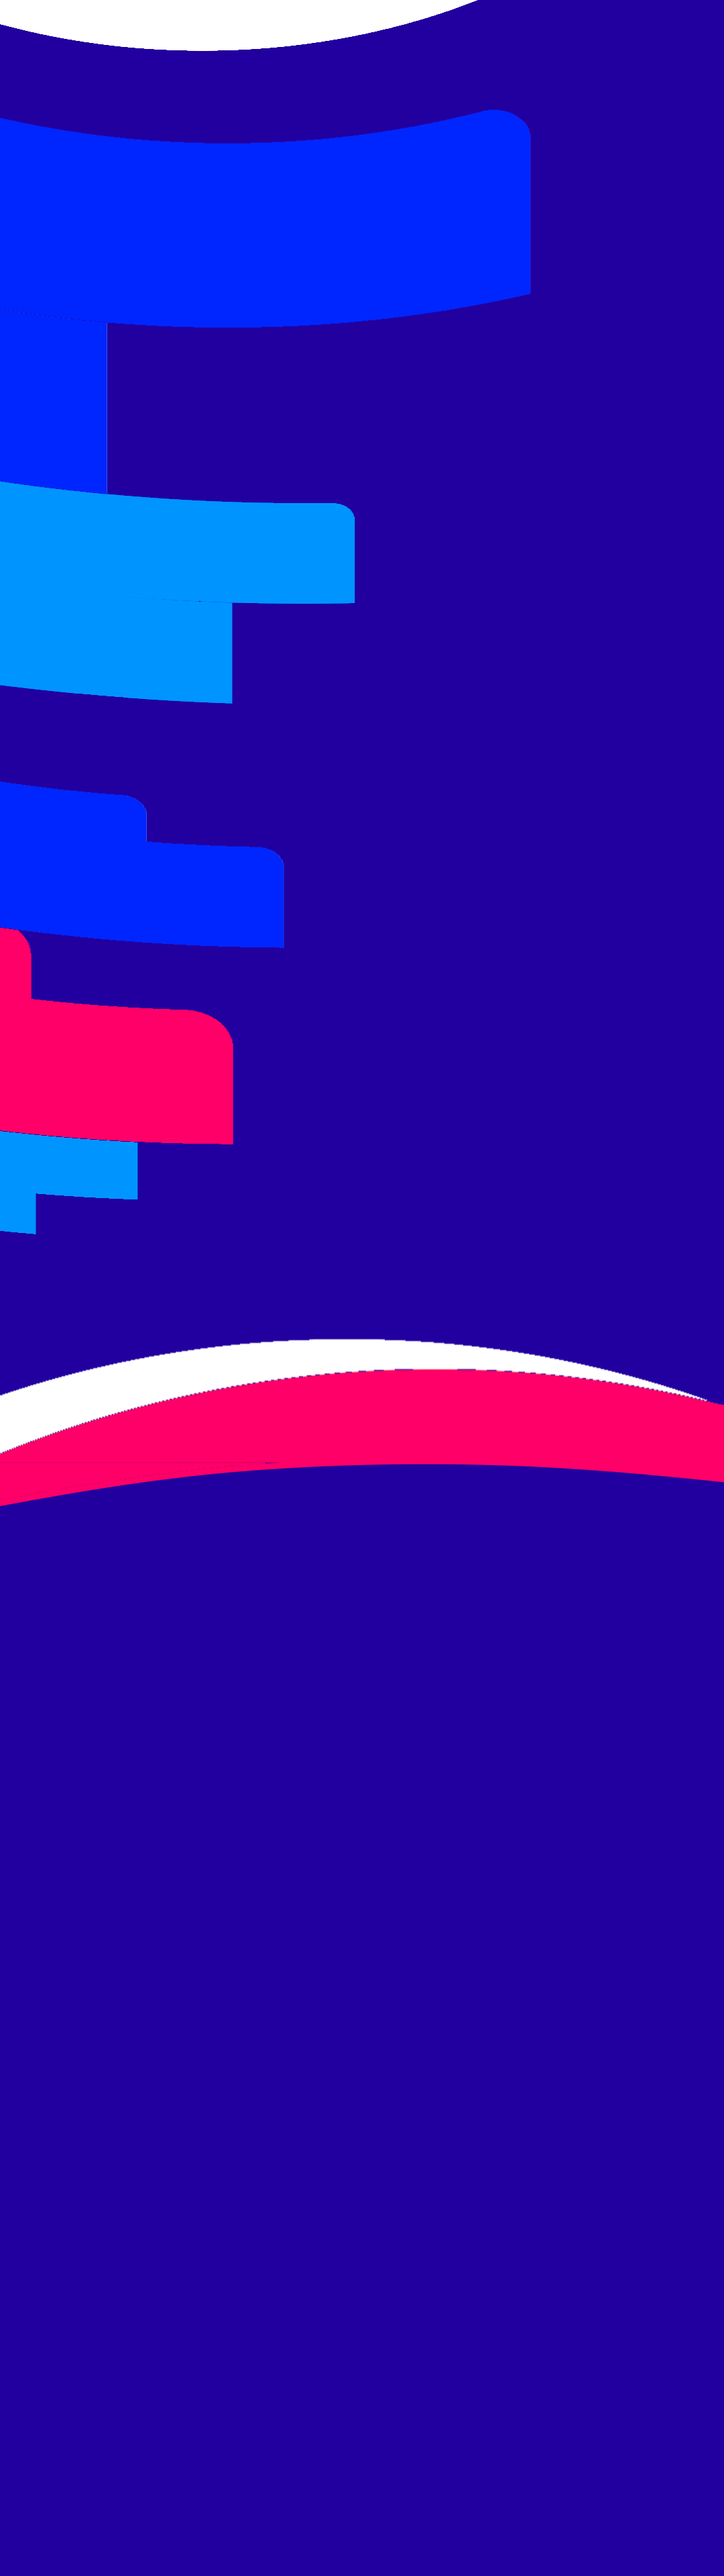
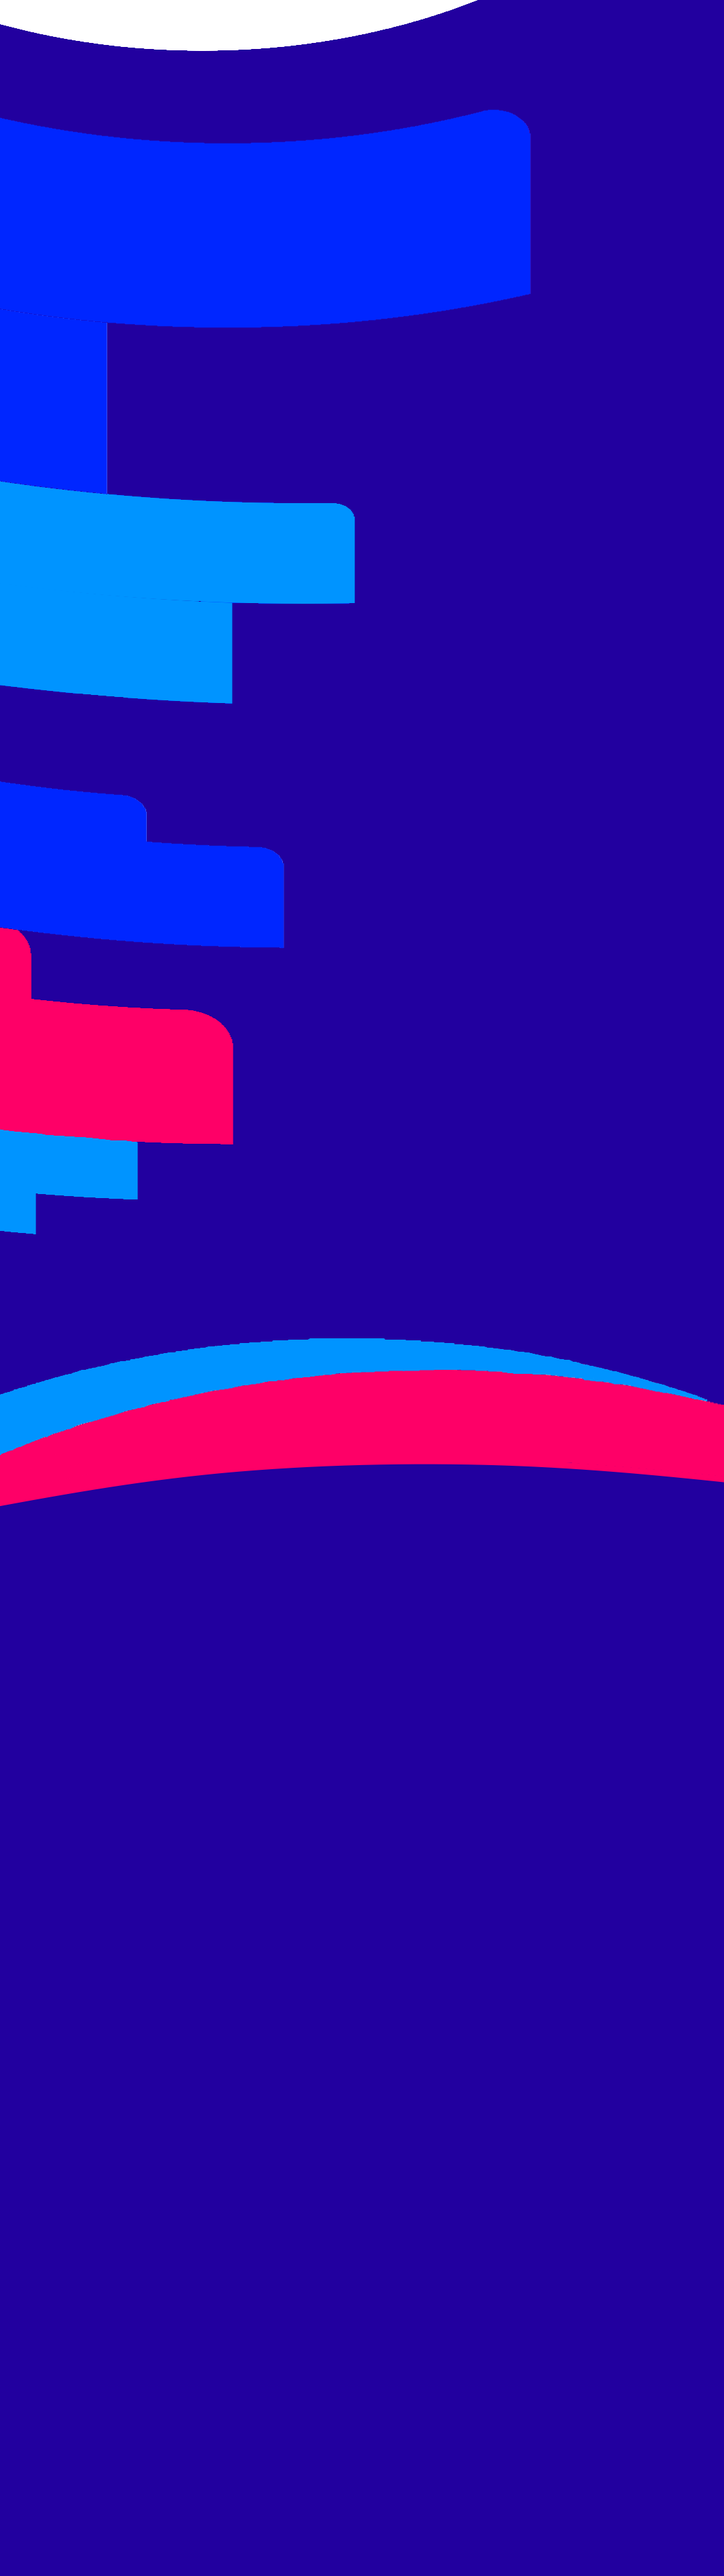
Added mobile version of Countries site

Changed region(s): [[0.0, 0.5, 0.9167, 0.5625]]

diff --git a/client/src/assets/style.css b/client/src/assets/style.css
@@ -4096,4 +4096,70 @@ td.ranking-td {
         font-size: 1em;
         max-width: 95%;
     }
+
+
+    /* panstwa */
+
+    #panstwaJ {
+        max-width: 100%;
+        width: 90%;
+        align-items: center;
+        top: 15%;
+        gap: 1.3rem;
+    }
+
+    .panstwa-title {
+        font-size: 2em;
+        max-width: 90%;
+    }
+
+    .panstwa-opis-div {
+        max-width: 100%;
+    }
+
+    .panstwa-opis {
+        font-size: 1em;
+    }
+
+    #dowiedzSiePanstwa {
+        aspect-ratio: 511 / 71;
+        width: 96%;
+        font-size: 1em;
+        padding-left: 1em;
+        letter-spacing: .1rem;
+    }
+
+    #panstwaD {
+        max-width: 100%;
+        width: 90%;
+        gap: 3rem;
+        top: 43%;
+        margin-bottom: 5rem;
+        scroll-margin-top: 1.3rem;
+    }
+
+    #panstwaD > div {
+        max-width: 100%;
+        width: 100%;
+    }
+
+    .panstwa-title-2, .panstwa-title-3 {
+        font-size: 1.4em;
+        width: 98%;
+        letter-spacing: .1rem;
+        text-align: center;
+    }
+
+    .zespol-krajow {
+        max-width: 100%;
+        width: 90%;
+        grid-template-columns: 1fr;
+        justify-items: center;
+    }
+
+    .zespol-krajow > img {
+        aspect-ratio: 427 / 65;
+        max-width: 100%;
+        width: 95%;
+    }
 }

diff --git a/client/src/hooks/pageBackground.js b/client/src/hooks/pageBackground.js
@@ -44,6 +44,7 @@ const pageBackground = () => {
           img: "/content/countries/panstwa_tlo_v2.png",
           imgMobile: "/content/mobile/panstwa/kraje_tlo.png", 
           height: "3006px",
+          heightMobile: "1300px",
           overflow: "visible",
           size: "100% 80%",
           att: "scroll",
